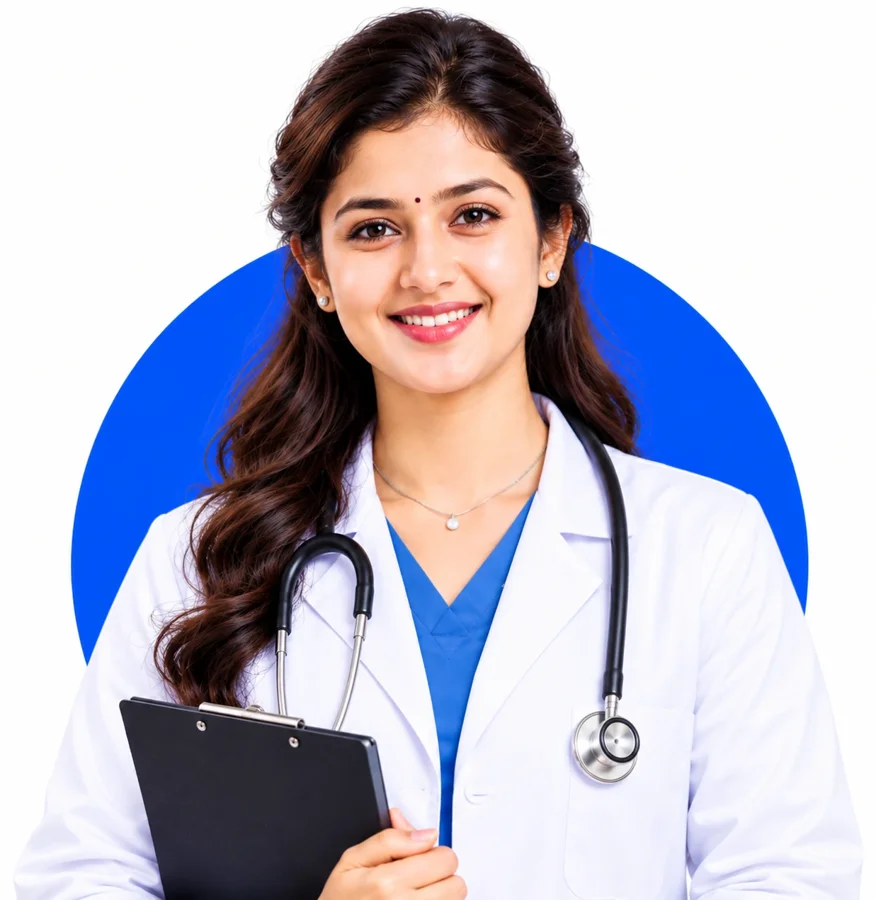
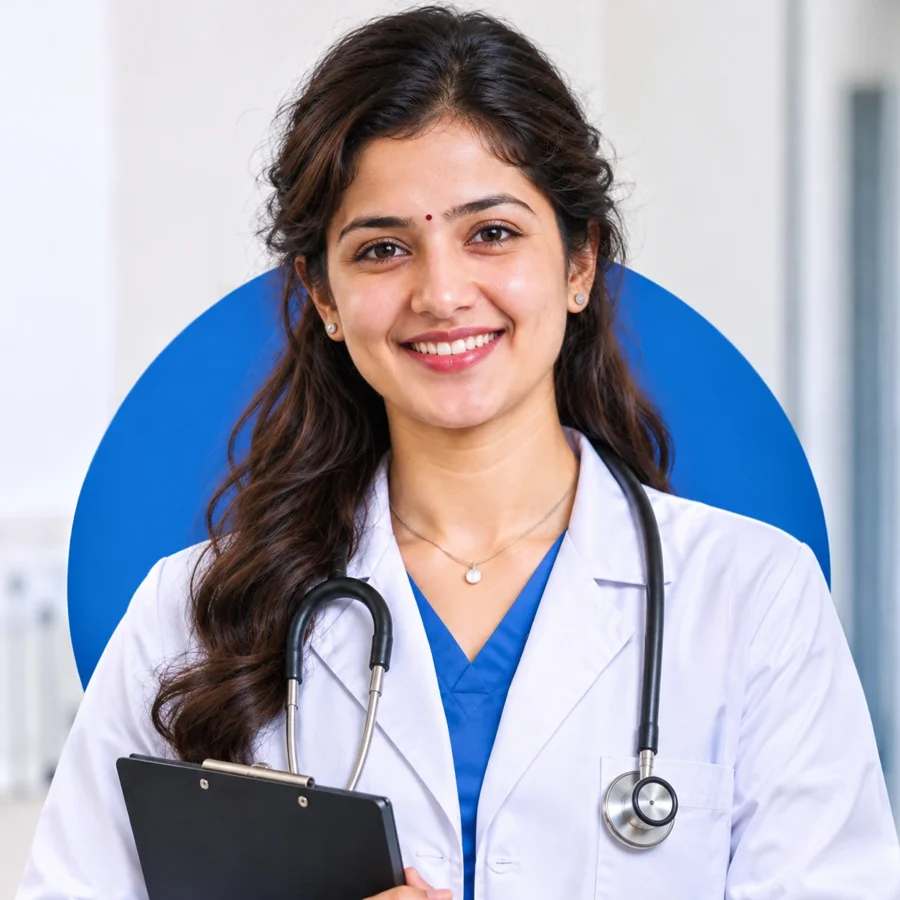
Replace hero photo and show it as a rounded photo card
Claude-Session: https://claude.ai/code/session_01QaGxT8Mz6PSp9cdSWs8MVu

diff --git a/src/components/Hero.jsx b/src/components/Hero.jsx
@@ -27,15 +27,14 @@ export default function Hero() {
         <motion.div className="relative mx-auto w-full max-w-md lg:max-w-none" initial={{ opacity: 0, scale: 0.95 }} animate={{ opacity: 1, scale: 1 }} transition={{ duration: 0.8, delay: 0.15 }}>
           <Sparkle className="absolute left-2 top-6 z-10 h-8 w-8 text-primary" />
           <Sparkle className="absolute right-4 top-12 z-10 h-5 w-5 text-primary/60" />
-          <div className="relative isolate mx-auto w-[92%] bg-soft">
+          <div className="relative mx-auto w-[88%] overflow-hidden rounded-[2.5rem] shadow-card ring-8 ring-white">
             <img
               src="/images/hero.webp"
               alt={text.hero.imageAlt}
               width="900"
-              height="925"
+              height="900"
               fetchpriority="high"
-              className="w-full mix-blend-multiply"
-              style={{ WebkitMaskImage: 'linear-gradient(to right, transparent, #000 6%, #000 94%, transparent), linear-gradient(to bottom, transparent, #000 6%)', WebkitMaskComposite: 'source-in', maskImage: 'linear-gradient(to right, transparent, #000 6%, #000 94%, transparent), linear-gradient(to bottom, transparent, #000 6%)', maskComposite: 'intersect' }}
+              className="aspect-square w-full object-cover"
             />
           </div>
           <motion.div className="absolute -left-2 bottom-16 z-10 flex items-center gap-3 rounded-2xl bg-white p-3 pr-5 shadow-card sm:left-0" animate={{ y: [0, -8, 0] }} transition={{ duration: 4, repeat: Infinity }}>

diff --git a/TEMPLATE.md b/TEMPLATE.md
@@ -37,7 +37,7 @@ Put the clinic's photos in `public/images/` using **exactly these names** (`.web
 
 | File | Where it appears | Good size / shape |
 |---|---|---|
-| `hero.webp` | Top of the page | Portrait on a white background, ~900 px wide |
+| `hero.webp` | Top of the page (rounded photo card) | Square, ~900 × 900 px, any background |
 | `about-1.webp` | About, big tooth | Portrait on a white background |
 | `about-2.webp` | About, small tooth | Close-up smile |
 | `doctor.webp` | Meet Your Dentist | Portrait, 4:5 |
